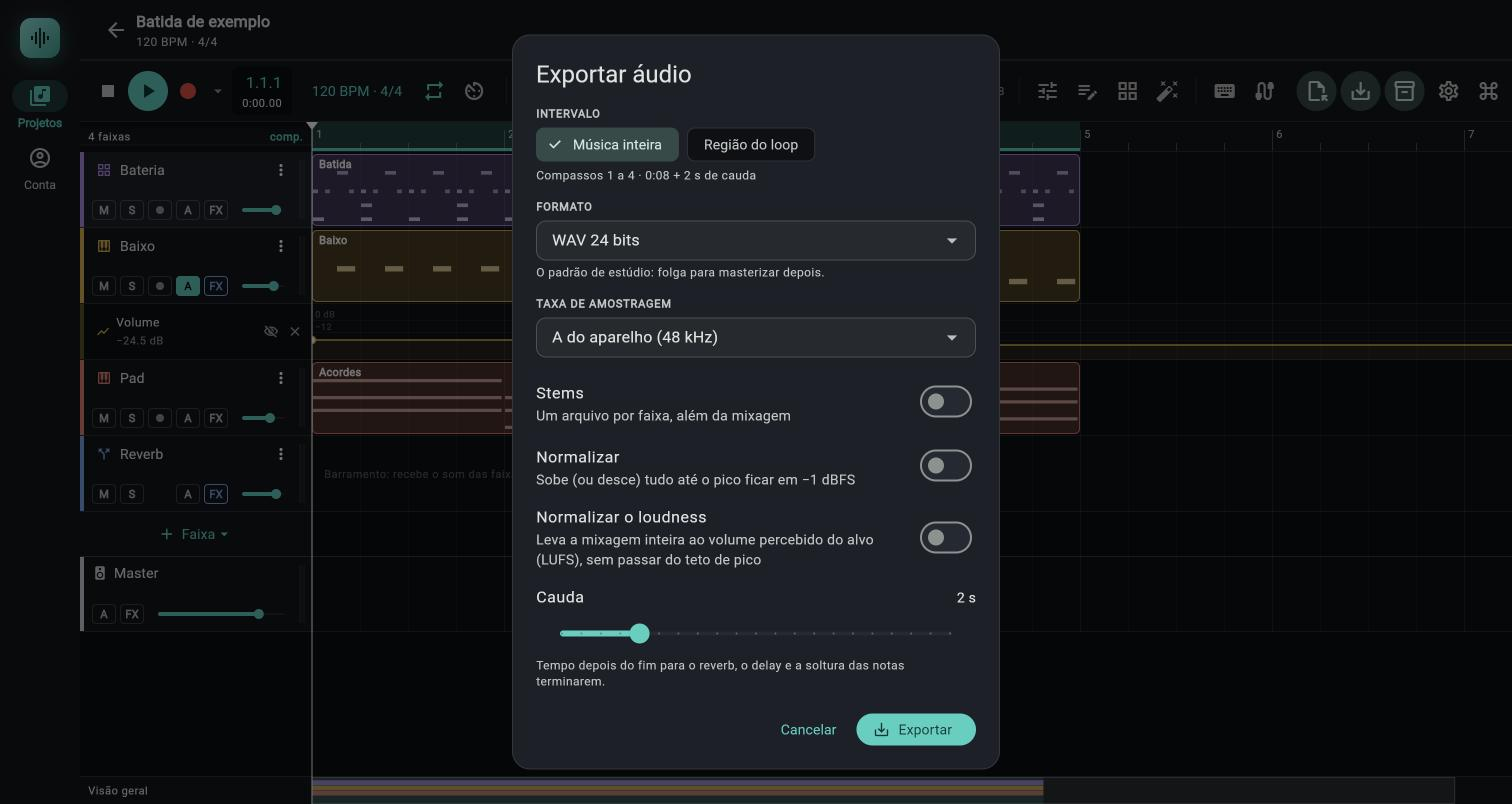
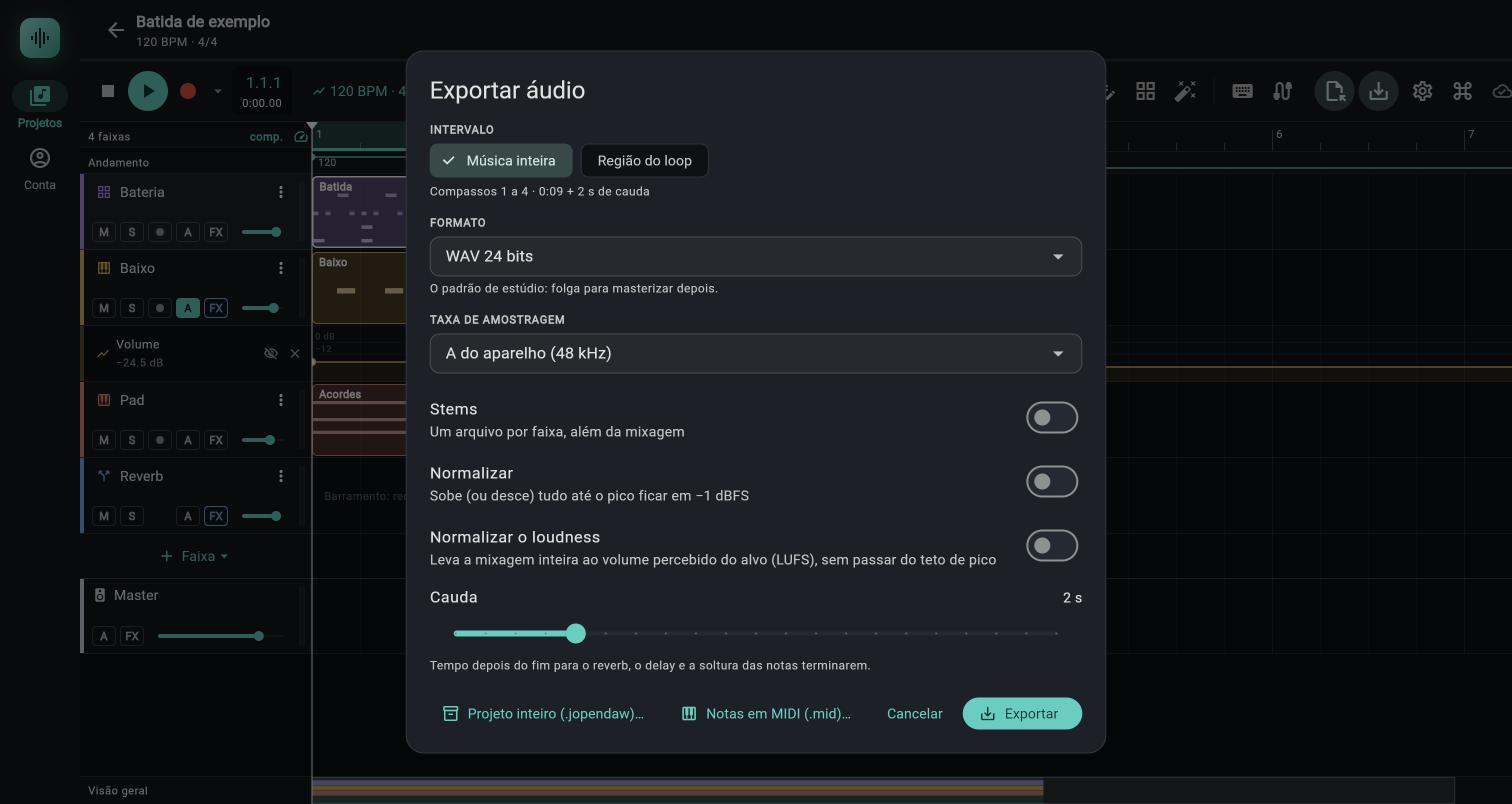
docs: capturas do mapa de andamento e do diálogo de exportar MIDI; captura atual do diálogo de exportar

diff --git a/docs/manual/08-exportacao.md b/docs/manual/08-exportacao.md
@@ -2,9 +2,9 @@
 
 > Como transformar o projeto em arquivos WAV (a música inteira e, se quiser, uma faixa por arquivo), como levar a mixagem a um volume-alvo em LUFS (streaming, podcast, rádio e TV) e como congelar uma faixa em áudio para aliviar o projeto ou fixar um som.
 
-![Diálogo Exportar áudio: intervalo, formato, taxa, Stems, Normalizar, Normalizar o loudness e Cauda.](../img/exportar-audio.jpg)
+![Diálogo Exportar áudio: intervalo, formato, taxa, Stems, Normalizar, Normalizar o loudness e Cauda; no pé, os botões Projeto inteiro (.jopendaw)…, Notas em MIDI (.mid)…, Cancelar e Exportar.](../img/exportar-audio.jpg)
 
-*Diálogo Exportar áudio: intervalo, formato, taxa, Stems, Normalizar, Normalizar o loudness e Cauda.*
+*Diálogo Exportar áudio: intervalo, formato, taxa, Stems, Normalizar, Normalizar o loudness e Cauda; no pé, os botões Projeto inteiro (.jopendaw)…, Notas em MIDI (.mid)…, Cancelar e Exportar.*
 
 ![Com Normalizar o loudness ligado aparecem os alvos (Streaming, Podcast, Broadcast, Personalizado) e o teto de true peak.](../img/exportar-loudness.jpg)
 
@@ -187,6 +187,10 @@ A faixa congelada não tem instrumento nem efeitos (eles já estão no áudio). 
 ## Notas em MIDI (.mid)
 
 O WAV leva o som; o `.mid` leva só as **notas** (e três controles), para abrir a melodia em outro programa ou guardá-la como texto musical. Vem do botão `Notas em MIDI (.mid)…` da janela **Exportar áudio**. Para o caminho de volta (importar um `.mid`), veja [Áudio e clipes](03-audio-e-clipes.md#importar-um-arquivo-midi-mid).
+
+![Diálogo Exportar MIDI (.mid): Clipe selecionado ou Todas as faixas de notas. Repare que o texto informa só o andamento inicial (120 BPM), mesmo com o ponto de 88 BPM no mapa.](../img/exportar-midi.jpg)
+
+*Diálogo Exportar MIDI (.mid): Clipe selecionado ou Todas as faixas de notas. Repare que o texto informa só o andamento inicial (120 BPM), mesmo com o ponto de 88 BPM no mapa.*
 
 ### Janela Exportar MIDI (.mid)
 

diff --git a/docs/manual/02b-timeline-e-clipes.md b/docs/manual/02b-timeline-e-clipes.md
@@ -39,6 +39,10 @@ A grade de fundo das raias mostra uma linha por compasso (mais forte) e, com 16 
 
 Até aqui o projeto tinha um andamento só. Agora o andamento pode mudar no meio da música (o **mapa de andamento**) e o compasso também (o **mapa de compassos**). Toda posição do projeto (clipes, notas, automação, marcadores, loop) continua contada em **batidas**; o mapa só decide quanto tempo real dura cada batida. Por isso notas, automação e clipes de notas acompanham as mudanças sozinhos. A batida do projeto é a semínima.
 
+![Faixa Andamento sob a régua com dois pontos: 120 BPM no começo e 88 BPM a partir do compasso 3; o botão de andamento da barra mostra o BPM vigente no cursor com o ícone de tendência.](../img/mapa-de-andamento.jpg)
+
+*Faixa Andamento sob a régua com dois pontos: 120 BPM no começo e 88 BPM a partir do compasso 3; o botão de andamento da barra mostra o BPM vigente no cursor com o ícone de tendência.*
+
 **Onde fica.** A faixa `Andamento` (22 px) fica logo abaixo da régua, com o rótulo `Andamento` na coluna dos cabeçalhos. Ligue com o botão de velocímetro no canto esquerdo da régua (ver tabela da régua).
 
 **O desenho.** Uma linha na cor da marca mostra o BPM ao longo da música, com um número (o BPM do ponto, `120`, `92,5`) ao lado de cada ponto e uma bolinha em cada ponto quando há mudanças. Trecho em **salto**: linha horizontal no BPM do ponto e degrau vertical no ponto seguinte. Trecho em **rampa**: reta diagonal do BPM de um ponto ao BPM do seguinte. A escala vertical vai do menor ao maior BPM dos pontos (no mínimo 20 BPM de faixa, centrada). Sem mudanças a linha fica apagada e aparece o texto `Duplo clique adiciona uma mudança de andamento`.
